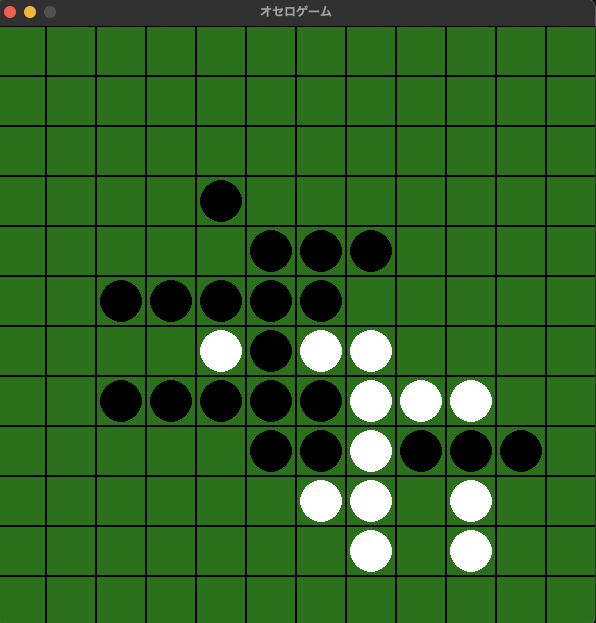
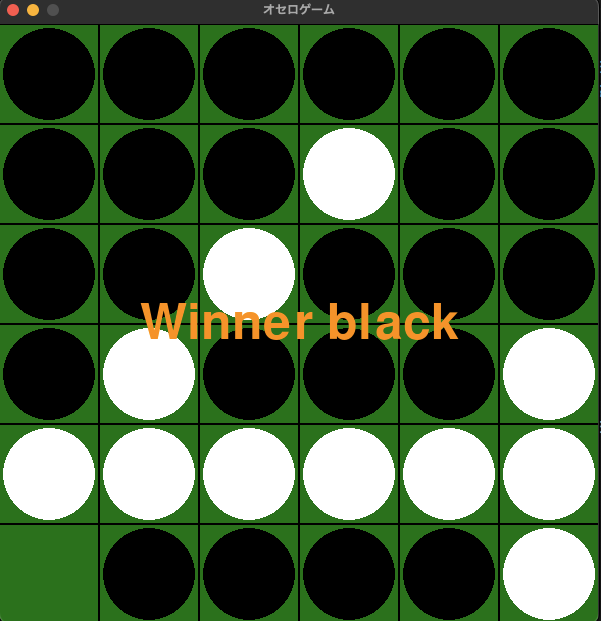
fix

diff --git a/python/pygame/othello/sample01/main.py b/python/pygame/othello/sample01/main.py
@@ -5,8 +5,9 @@ import sys
 BLACK = (0, 0, 0)
 WHITE = (255, 255, 255)
 GREEN = (0, 128, 0)
+YELLOW = (255, 155, 0)
 SIZE = 600
-BOARD_SIZE = 12  # ボードのサイズを変数で管理
+BOARD_SIZE = 6
 GRID_SIZE = SIZE // BOARD_SIZE
 
 # Pygameの初期化
@@ -16,18 +17,14 @@ pygame.display.set_caption("オセロゲーム")
 
 class Othello:
     def __init__(self):
-        # BOARD_SIZE x BOARD_SIZEのボードを初期化
         self.board = [[None] * BOARD_SIZE for _ in range(BOARD_SIZE)]
-        # 初期配置
         mid = BOARD_SIZE // 2
         self.board[mid - 1][mid - 1] = WHITE
         self.board[mid - 1][mid] = BLACK
         self.board[mid][mid - 1] = BLACK
         self.board[mid][mid] = WHITE
-        # 最初のターンは黒
         self.turn = BLACK
 
-    # ボードを描画
     def draw_board(self):
         screen.fill(GREEN)
         for x in range(BOARD_SIZE):
@@ -37,11 +34,9 @@ class Othello:
                 if self.board[x][y] is not None:
                     self.draw_stone(x, y, self.board[x][y])
 
-    # 石を描画
     def draw_stone(self, x, y, color):
         pygame.draw.circle(screen, color, (x * GRID_SIZE + GRID_SIZE // 2, y * GRID_SIZE + GRID_SIZE // 2), GRID_SIZE // 2 - 4)
 
-    # 有効な手かチェック
     def is_valid_move(self, x, y):
         if self.board[x][y] is not None:
             return False
@@ -62,7 +57,12 @@ class Othello:
                         break
         return valid
 
-    # 石の色を反転
+    def is_board_full(self):
+        for row in self.board:
+            if None in row:
+                return False
+        return True
+    
     def flip_stones(self, x, y):
         opponent = WHITE if self.turn == BLACK else BLACK
         for dx, dy in [(-1, -1), (-1, 0), (-1, 1), (0, -1), (0, 1), (1, -1), (1, 0), (1, 1)]:
@@ -76,7 +76,6 @@ class Othello:
                 for px, py in pieces_to_flip:
                     self.board[px][py] = self.turn
 
-    # 次の一手が存在するかチェック
     def has_valid_move(self):
         for x in range(BOARD_SIZE):
             for y in range(BOARD_SIZE):
@@ -84,25 +83,39 @@ class Othello:
                     return True
         return False
 
-    # ゲーム終了
     def game_end(self):
-        # ゲーム終了時の結果を表示
         black_count = sum(row.count(BLACK) for row in self.board)
         white_count = sum(row.count(WHITE) for row in self.board)
-        # 石の数を比較して勝利判定
         if black_count > white_count:
-            return "黒側の勝利"
+            return "Winner black"
         elif white_count > black_count:
-            return "白側の勝利"
+            return "Winner white"
         else:
-            return "引き分け"
+            return "Draw"
 
-    # 次の一手を反映
     def next_move(self, x, y):
-        if self.is_valid_move(x, y):
+        if self.is_board_full():
+            result = self.game_end()
+            self.display_result(result)
+        elif self.is_valid_move(x, y):
             self.board[x][y] = self.turn
             self.flip_stones(x, y)
             self.turn = WHITE if self.turn == BLACK else BLACK
+            if not self.has_valid_move() or self.is_board_full():
+                self.turn = WHITE if self.turn == BLACK else BLACK
+                if not self.has_valid_move():
+                    result = self.game_end()
+                    self.display_result(result)
+
+    def display_result(self, result):
+        font = pygame.font.Font(None, 74)
+        text = font.render(result, True, YELLOW)
+        text_rect = text.get_rect(center=(SIZE // 2, SIZE // 2))
+        screen.blit(text, text_rect)
+        pygame.display.flip()
+        pygame.time.wait(10000)
+        pygame.quit()
+        sys.exit()
 
 def main():
     game = Othello()
